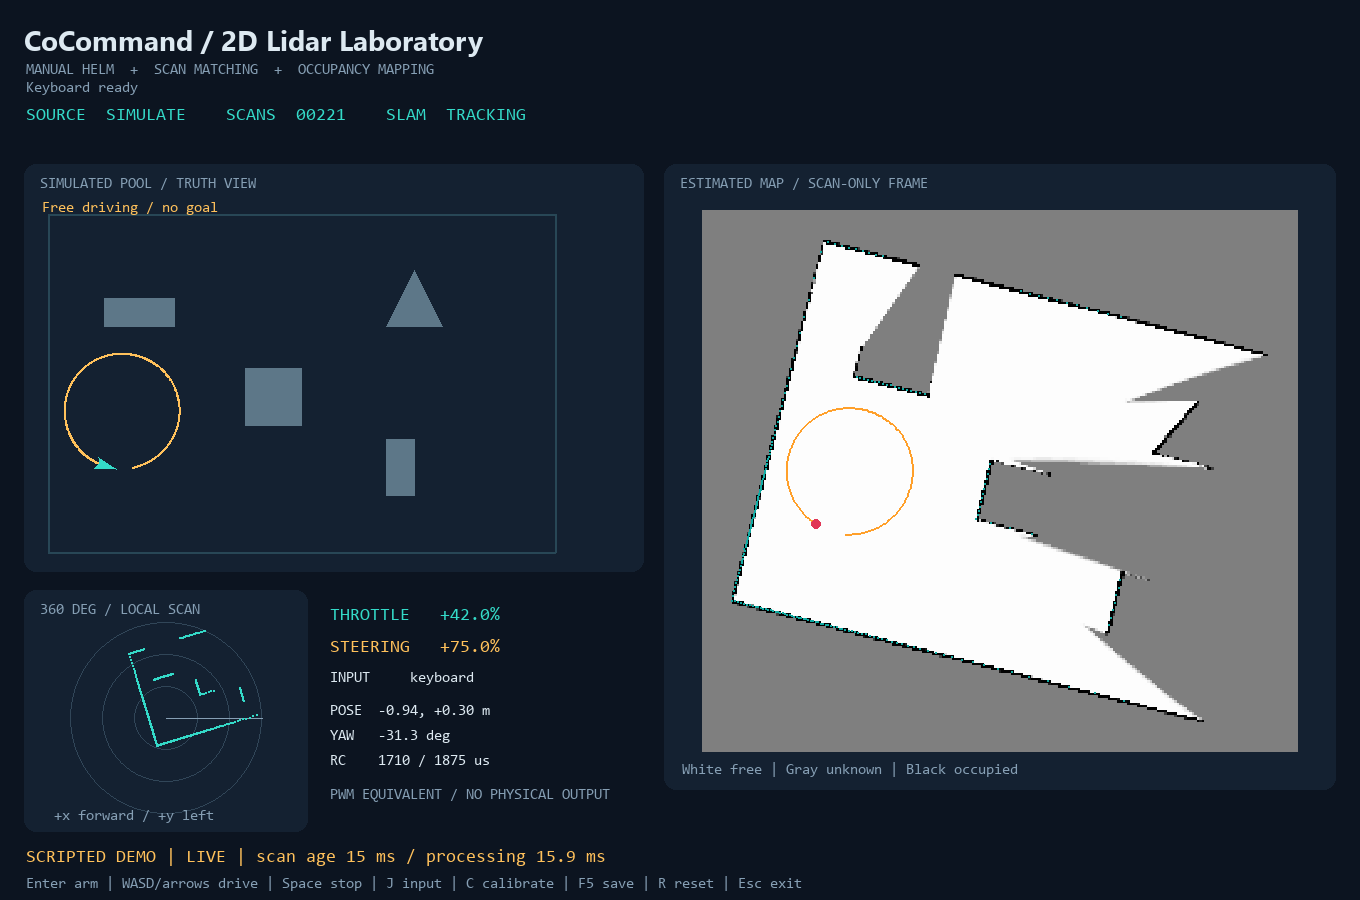
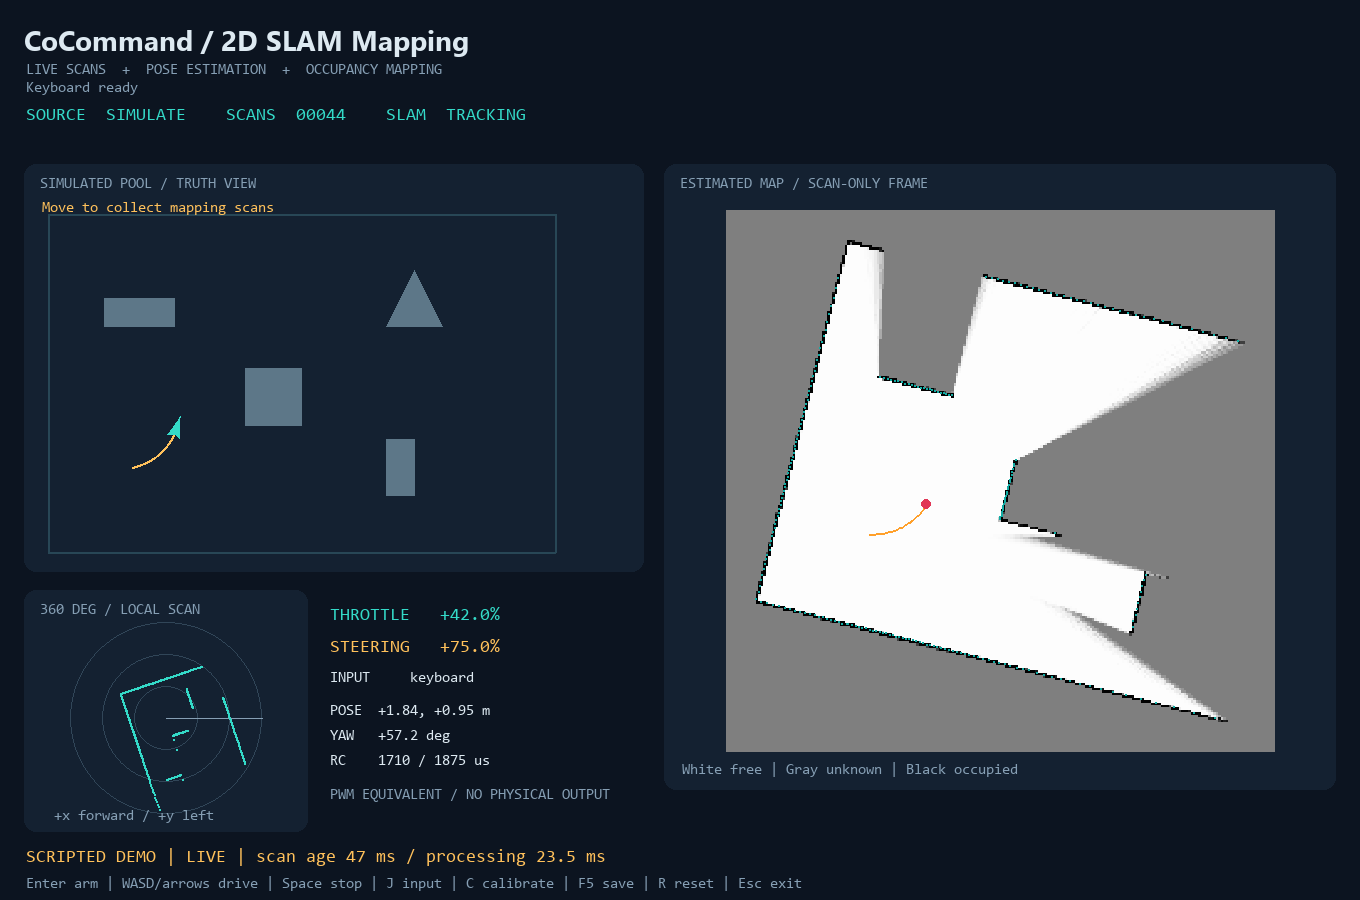
Focus the platform interface and workflow on SLAM mapping

diff --git a/labs/lidar2d/src/cocommand2d/visualization/gui.py b/labs/lidar2d/src/cocommand2d/visualization/gui.py
@@ -18,7 +18,7 @@ class Dashboard:
         pygame.display.init()
         pygame.font.init()
         self.screen = pygame.display.set_mode((1360, 900))
-        pygame.display.set_caption("CoCommand-USV | 2D Lidar Laboratory")
+        pygame.display.set_caption("CoCommand-USV | 2D SLAM Mapping")
         self.font = pygame.font.SysFont("Consolas", 18)
         self.small = pygame.font.SysFont("Consolas", 15)
         self.title = pygame.font.SysFont("Segoe UI", 28, bold=True)
@@ -35,8 +35,8 @@ class Dashboard:
 
     def render(self, session, command, status, input_mode, message=""):
         self.screen.fill(BG)
-        self.text("CoCommand / 2D Lidar Laboratory", (24, 20), title=True)
-        self.text("MANUAL HELM  +  SCAN MATCHING  +  OCCUPANCY MAPPING", (26, 62), MUTED, small=True)
+        self.text("CoCommand / 2D SLAM Mapping", (24, 20), title=True)
+        self.text("LIVE SCANS  +  POSE ESTIMATION  +  OCCUPANCY MAPPING", (26, 62), MUTED, small=True)
         self.text(f"SOURCE  {session.mode.upper()}    SCANS  {session.count:05d}    SLAM  {session.slam.status}", (26, 106), CYAN)
         self.panel(self.world_rect, "SIMULATED POOL / TRUTH VIEW" if session.mode == "simulate" else "SENSOR VIEW / NO SIMULATION TRUTH")
         if session.mode == "simulate":
@@ -50,7 +50,7 @@ class Dashboard:
                 pygame.draw.lines(self.screen, AMBER, False, [point(p) for p in session.truth[-5000:]], 2)
             hull = np.array([[.44, 0], [-.32, .22], [-.22, 0], [-.32, -.22]])
             pygame.draw.polygon(self.screen, CYAN, [point(p) for p in transform(hull, session.boat.pose)])
-            self.text("Collision: hull contact" if session.boat.collided else "Free driving / no goal", (r.x+18, r.y+36), AMBER, small=True)
+            self.text("Geometry contact: adjust motion" if session.boat.collided else "Move to collect mapping scans", (r.x+18, r.y+36), AMBER, small=True)
         else:
             self.text("Scan-only localization", (46, 235), CYAN)
             self.text("First scan defines (0, 0, 0).", (46, 276))

diff --git a/labs/lidar2d/src/cocommand2d/app.py b/labs/lidar2d/src/cocommand2d/app.py
@@ -193,7 +193,7 @@ def run_gui(args, session):
             now = time.monotonic()
             age = now-session.received if session.scan else float("inf")
             timing = f"scan age {max(0, age)*1000:.0f} ms / processing {session.processing_ms:.1f} ms"
-            state = "LIVE" if session.observation().fresh(now) else "STALE / NOT FOR AVOIDANCE"
+            state = "LIVE" if session.observation().fresh(now) else "STALE / WAITING FOR SCAN"
             if args.mode == "replay":
                 state = "REPLAY / OFFLINE"
             status = ("SCRIPTED DEMO" if args.demo else guard.reason) + " | " + state + " | " + timing

diff --git a/labs/lidar2d/README_CN.md b/labs/lidar2d/README_CN.md
@@ -1,6 +1,6 @@
-# CoCommand-USV 二维雷达、在线 SLAM 与手动驾驶平台
+# CoCommand-USV 二维雷达 SLAM 建图平台
 
-这是主仓库下的独立 Python 实验平台：`labs/lidar2d/`。无需 ROS、GPU、原生研究控制器或真实硬件即可运行。现有研究算法和船舶动力学未改动。
+这是主仓库下的独立 Python 实验平台：`labs/lidar2d/`。核心流程是实时扫描、位姿估计、占据地图更新与录制回放；手动驾驶用于移动采集数据。无需 ROS、GPU、原生研究控制器或真实硬件即可运行。现有研究算法和船舶动力学未改动。
 
 收到 Windows 便携 ZIP 后，先完整解压，再双击根目录的 `01_START_SIMULATION.cmd`；完整步骤见 [运行指引和工作流程](../../START_HERE_CN.md)。便携包自带 Python 和依赖。下面的安装步骤用于 GitHub 普通源码下载。
 
@@ -15,7 +15,6 @@
 - 手动仿真：比例油门和转向、简化运动学与响应滞后、船体碰撞约束、虚拟雷达、可见轨迹。无目标点或导航路线。
 - 输入：Pygame 手柄自动发现、热插拔、摇杆/单扳机映射、范围和中位校准、死区、按键映射；键盘可独立驾驶。
 - 保存：统一 JSONL 扫描、NPZ/PGM 地图、地图坐标说明、CSV 估计轨迹、摘要和截图；支持按原时间间隔播放或无界面重建。
-- 未来接口：`SteeringAuthority` 只能返回舵角，原样保留人给定的油门。当前为直接透传，**未接入避障、安全过滤、目标导航或路径规划**。
 - `RCSignal` 仅计算 PWM 脉宽等效数值，没有真实电调/舵机输出路径。
 
 **硬件状态：C1 和实体游戏手柄尚未实测。** SDK 编译、数据转换、模拟进程断连/重连、模拟手柄比例控制通过，不等于硬件验收。详见 [测试证据](docs/VALIDATION_CN.md)。
@@ -99,7 +98,7 @@ python3.11 -m venv .venv
 .venv\Scripts\python.exe -m pytest labs/lidar2d/tests -q
 ```
 
-示例场景是 18 × 12 m 水池、四个静态多边形障碍物，模拟雷达量程 12 m、距离噪声标准差 1 cm。`--demo` 使用固定油门 0.42、左转向 0.75 的开环控制，形成可复现弯曲运动；没有用目标点或真值反馈导航。真实水池的材质、反射、遮挡和运动畸变不会被这个简单模型充分模拟。
+示例场景是 18 × 12 m 水池、四个静态多边形参照物，供雷达扫描和建图使用。模拟雷达量程 12 m、距离噪声标准差 1 cm。`--demo` 使用固定油门 0.42、左转向 0.75 的开环控制，形成可复现弯曲运动。真实水池的材质、反射、遮挡和运动畸变不会被这个简单模型充分模拟。
 
 默认输出目录为 `output/年月日-时分秒`。显式复用 `--output` 会更新该目录的地图和摘要；**录制文件使用独占新建，不覆盖已有记录**，重跑应换目录或文件名。
 
@@ -184,7 +183,7 @@ Ninja/单配置构建的 Windows 路径为 `build-c1/cocommand_c1.exe`；Linux/m
 
 断流/进程退出时显示错误并按 1、2、4、8 秒上限重试。GUI 不等待串口读操作；正常退出请求桥接停止扫描并断开，失去响应才结束子进程。设备断开期间地图停留在最后一次结果，但数据年龄持续增加并标记过期。重连后若雷达已经大幅移动，局部匹配可能无法恢复，应按 R 在新原点重新建图。
 
-## 7. 为什么需要实时图，而不只是回池后分析
+## 7. 实时建图与录制工作流程
 
 在线运行链路是：
 
@@ -194,7 +193,7 @@ C1 SDK 后台采集 ─┬─> 规范化扫描记录（可选）
 虚拟雷达 / 离线记录 ────────────────> 同一 Scan 接口 ───────────┘
 ```
 
-**当前局部扫描**描述此刻周围的障碍物，**累计地图**提供静态环境上下文，二者均保留。移动障碍物不能只根据累计地图判断。实时采集与录制可以同时进行，无需先录完再建图。
+**当前局部扫描**展示这一圈测距结果，**累计地图**融合已成功匹配的多帧扫描，**估计轨迹**展示雷达相对首帧的运动。实时采集、建图与录制可以同时进行，无需先录完再建图。
 
 `Observation` 提供当前扫描、估计位姿、匹配状态、主机收包时间和处理耗时：
 
@@ -202,8 +201,7 @@ C1 SDK 后台采集 ─┬─> 规范化扫描记录（可选）
 - 回放始终标记为离线，不能伪装成当前传感器数据。
 - UI 显示 `scan age` 与 `processing`。真实数据年龄从 Python 接收完整桥接包时计算，包含之后的排队和处理；**不包含硬件采样至桥接输出之前的延迟**。一圈内部约 100 ms 的采样时差、USB/SDK 缓冲必须在硬件联调时测量。
 - 显示端积压时优先消费最新帧；录制在显示队列之前进行。队列是有界的，极端负载下仍可能丢帧并计数，不能宣称无损或硬实时。
-- 目前 SLAM 与绘图在 GUI 线程处理；串口采集在后台。软件测试测量了处理耗时，但未证明真实设备到控制器的端到端截止时间。
-- 后续避障应检查数据时效和定位质量，并从当前扫描构造局部障碍物观测。接口仅预留，不在本次实现中把扫描自动转换成推进器控制。
+- 目前 SLAM 与绘图在 GUI 线程处理；串口采集在后台。软件测试测量了处理耗时，但真实雷达到地图显示的完整延迟仍需实机测量。
 
 ## 8. 算法与独立模块
 
@@ -238,7 +236,7 @@ BreezySLAM 官方 README 将 Python 支持列为 Linux/macOS，Windows 列在 C+
 | 质量低、距离跳变、扫描停止 | 检查供电、光学窗口、目标反射、遮挡和设备健康码；不要用异常回波清空地图 |
 | LOST / DEGENERATE | 减速，保持多方向静态结构；回到上一位置，必要时 R 重置 |
 | 地图扭曲或轨迹漂移 | 纯雷达局部匹配没有全局重定位和回环优化；高速旋转、动态物体和稀疏几何会出错 |
-| STALE / NOT FOR AVOIDANCE | 当前数据已过期；不能把停留在屏幕上的地图当成实时安全证据 |
+| STALE / WAITING FOR SCAN | 当前扫描已过期；屏幕保留最后一次地图，检查数据源和连接 |
 | Map boundary | 默认地图范围有限；调整 `LidarSlam(extent=..., resolution=...)` 后重新运行 |
 | JSONL 行号错误 | 文件被截断、手工修改或时间倒退；保留原件，检查对应行；不会静默跳过错误 |
 
@@ -251,7 +249,6 @@ BreezySLAM 官方 README 将 Python 支持列为 Linux/macOS，Windows 列在 C+
 3. 缓慢平移/旋转雷达，检查在线轨迹；断开/重新连接 USB，确认错误、过期标记、重连及退出停止扫描。
 4. 实体手柄检查轴范围、死区、两端百分比和各按钮，拔线/断蓝牙必须归零并重新启用。
 5. 水池中只做感知与记录，对照独立位置参考评估漂移、延迟、反射和遮挡；不连接真实推进输出。
-6. 再与主项目共享控制算法对接，保持人控油门、必要时仅改舵角；单片机、电调、舵机的真实输出协议、独立停止措施和硬件配置需另行确认与验证。
 
 ## 官方参考
 

diff --git a/START_HERE_CN.md b/START_HERE_CN.md
@@ -1,5 +1,7 @@
 # 二维仿真与 SLAM：运行指引和工作流程
 
+平台的核心是 **实时二维 SLAM 建图**：采集扫描、估计雷达位姿、逐帧更新地图与轨迹、保存和回放。键盘或手柄用于移动采集；场景中的墙面和几何物体提供建图参照。
+
 ## 最快进入方法（Windows 10/11，64 位 x86 电脑）
 
 1. 把收到的 ZIP **完整解压**到一个短路径，例如 `D:\CoCommand2D\`。不要直接在压缩软件里双击脚本。
@@ -29,7 +31,7 @@ C1 桥接 `bin/cocommand_c1.exe` 已编译并附 SDK 许可文件。它只用于
 - 右侧：**只根据雷达扫描估计**的 SLAM 地图与轨迹，未读取仿真真实坐标。
 - 左下：当前一圈 360° 局部扫描。
 - 下方：油门、转向、模拟 RC 数值，以及数据年龄和处理耗时。
-- 白色为自由空间，灰色为未知区域，黑色为障碍物。第一帧定义 SLAM 原点，左右两个视图的方向可能不同。
+- 白色为自由空间，灰色为未知区域，黑色为占据区域。第一帧定义 SLAM 原点，左右两个视图的方向可能不同。
 
 每次通过入口启动，会在 `output/时间-模式/` 保存地图、轨迹和摘要。仿真、自动演示、真实 C1 模式还自动记录 `scans.jsonl`。正常退出会保存截图；不要直接强制结束进程。
 
@@ -48,7 +50,7 @@ C1 桥接 `bin/cocommand_c1.exe` 已编译并附 SDK 许可文件。它只用于
 
 静止时形成当前视野的局部地图，随着移动才扩展覆盖范围。纯激光定位需要足够静态几何特征；空旷水面、长走廊、对称结构、快速移动或动态障碍会导致漂移/退化。当前没有全局回环和运动去畸变，不能承诺任意场景都定位成功。
 
-实时避障后续需要当前扫描、位姿质量和数据时效一起使用。累计地图可能保留旧障碍，不能替代当前传感器观测。界面过期时显示 `STALE / NOT FOR AVOIDANCE`，回放显示 `REPLAY / OFFLINE`。本版本没有避障控制算法或真实推进器输出。
+扫描到达后立即参与匹配和地图更新，无需先完成录制。界面显示扫描数据年龄和处理耗时；断流后保留最后一幅地图，并显示 `STALE / WAITING FOR SCAN`。回放显示 `REPLAY / OFFLINE`，从记录重新计算地图与轨迹。
 
 ## 进一步操作
 

diff --git a/labs/lidar2d/docs/VALIDATION_CN.md b/labs/lidar2d/docs/VALIDATION_CN.md
@@ -73,7 +73,6 @@
 2. 慢速手持运动、遮挡、拔插、断电、恢复、退出停止扫描检查。
 3. 实体手柄的轴编号、正负方向、校准、死区、热插拔与安全中位检查。
 4. 水池光照/反射、船体遮挡、安装偏角、运动去畸变需求与真值对照。
-5. 在这些结果可接受后再接入共享控制；真实推进输出仍需单独的硬件接口审核与显式启用。
 
 代码提交 `874cab6` 的[远端平台 CI](https://github.com/Zhang-GTIIT/CoCommand-USV-Authority-Consistent-Predictive-Safety-Filtering-for-Shared-Vessel-Control/actions/runs/40476873396) **6/6 任务成功**：Windows/Linux × Python 3.11/3.12 的测试、仿真和回放，以及 Windows/Linux SDK 桥接构建。同一提交的[原项目 CI](https://github.com/Zhang-GTIIT/CoCommand-USV-Authority-Consistent-Predictive-Safety-Filtering-for-Shared-Vessel-Control/actions/runs/40476873363)也成功。
 

diff --git a/IMPLEMENTATION_STATUS.md b/IMPLEMENTATION_STATUS.md
@@ -4,6 +4,10 @@ This file is evidence-oriented. `implemented_and_tested` means a listed command 
 
 ## 2026-10-27 update - portable Windows launcher and distribution
 
+- UI and operating workflow focus on SLAM scans, estimated pose, maps and replay.
+  Removed future avoidance workflow text from the laboratory guide and display;
+  static scene geometry remains a raycast/mapping reference. The original
+  steering-only extension stays internal and inactive.
 - Added neutral Chinese running/workflow instructions, four CMD entry points, and
   a relocatable Python launcher. ZIP assembly includes Git-indexed source, a clean
   CPython runtime, dependency licenses, the C1 SDK bridge/library, and a synthetic
